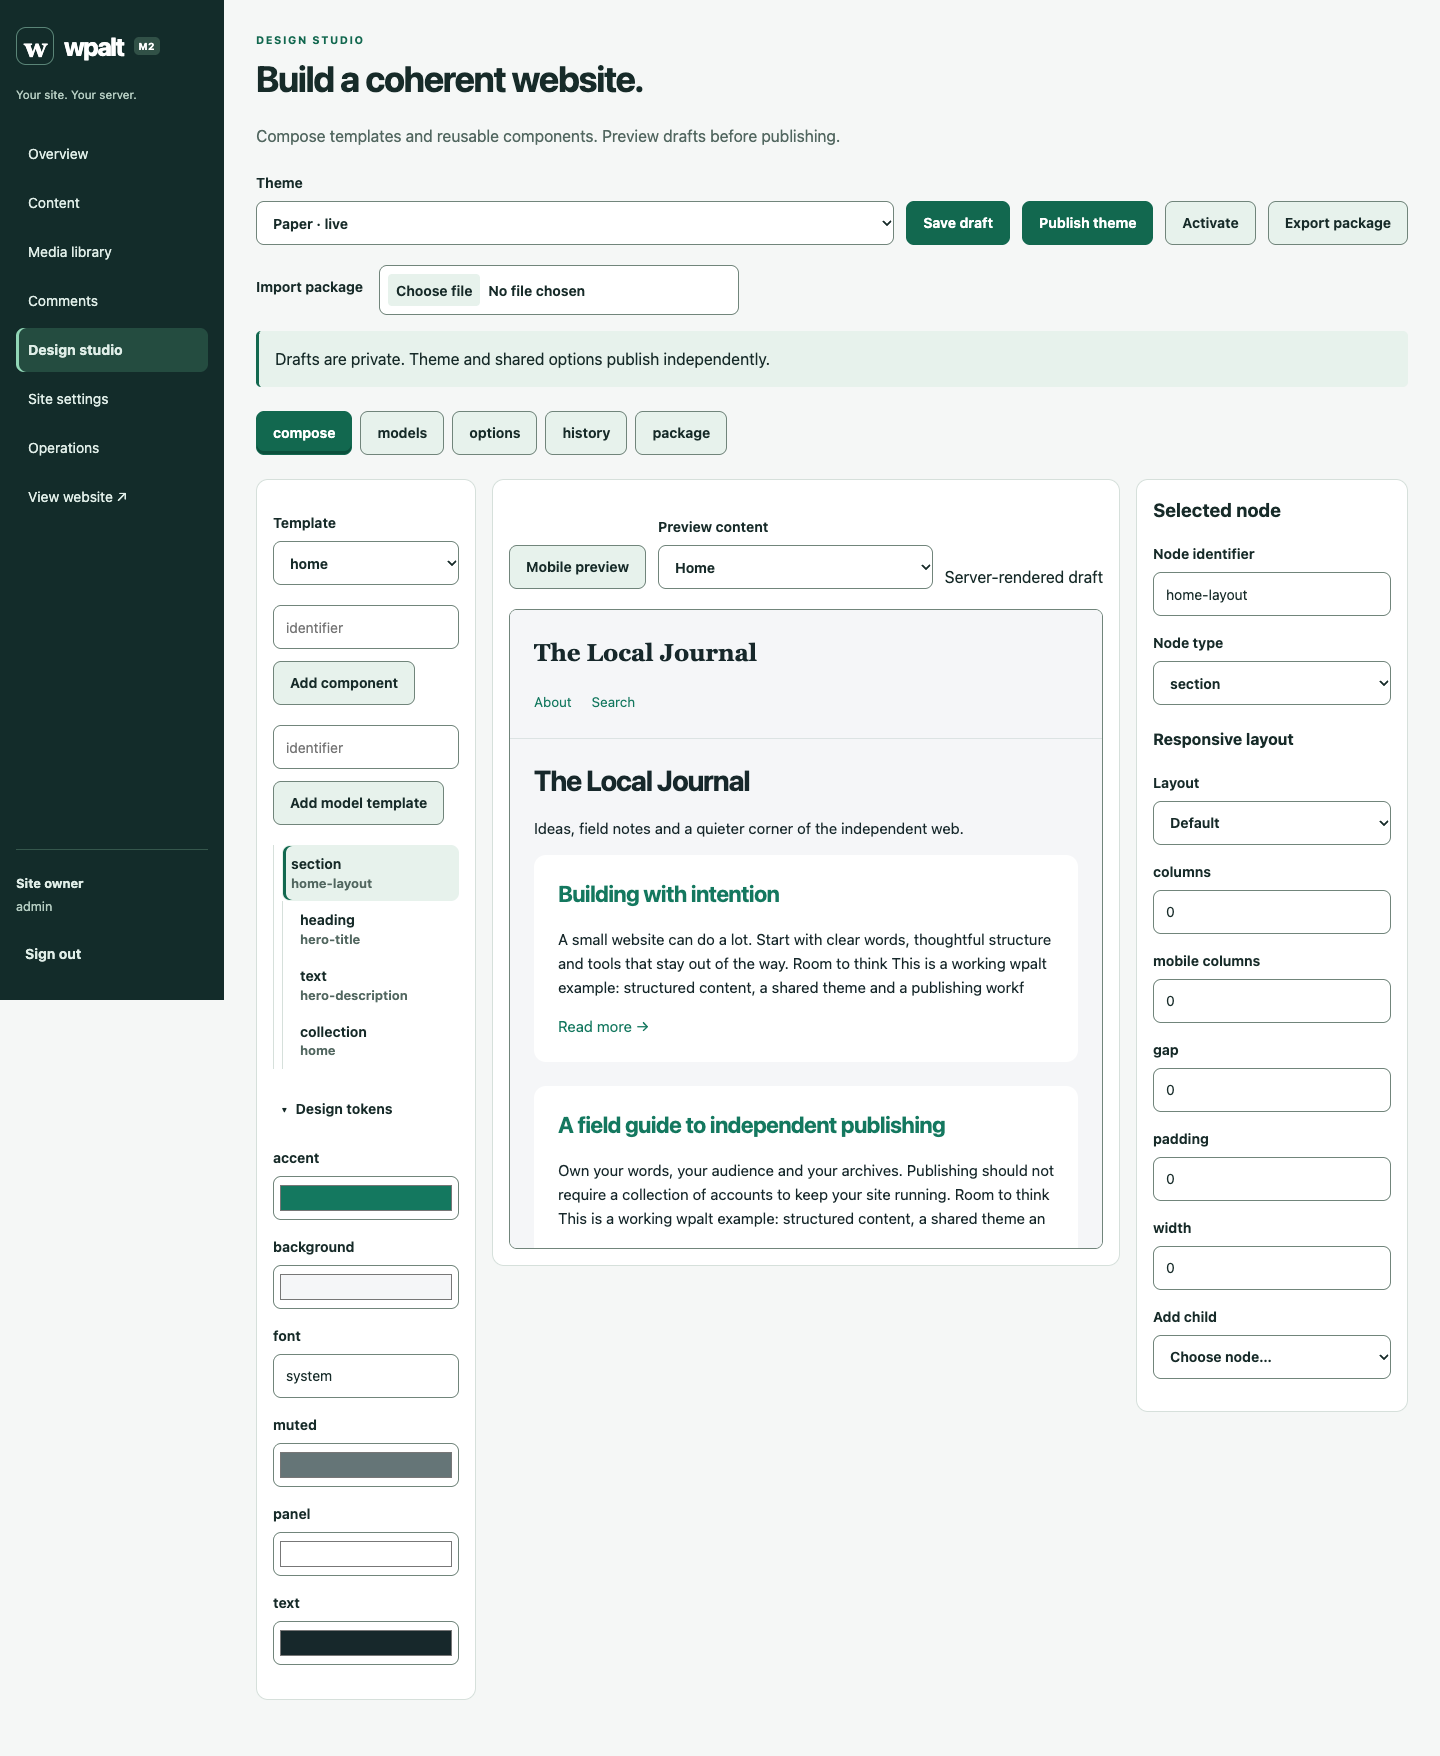
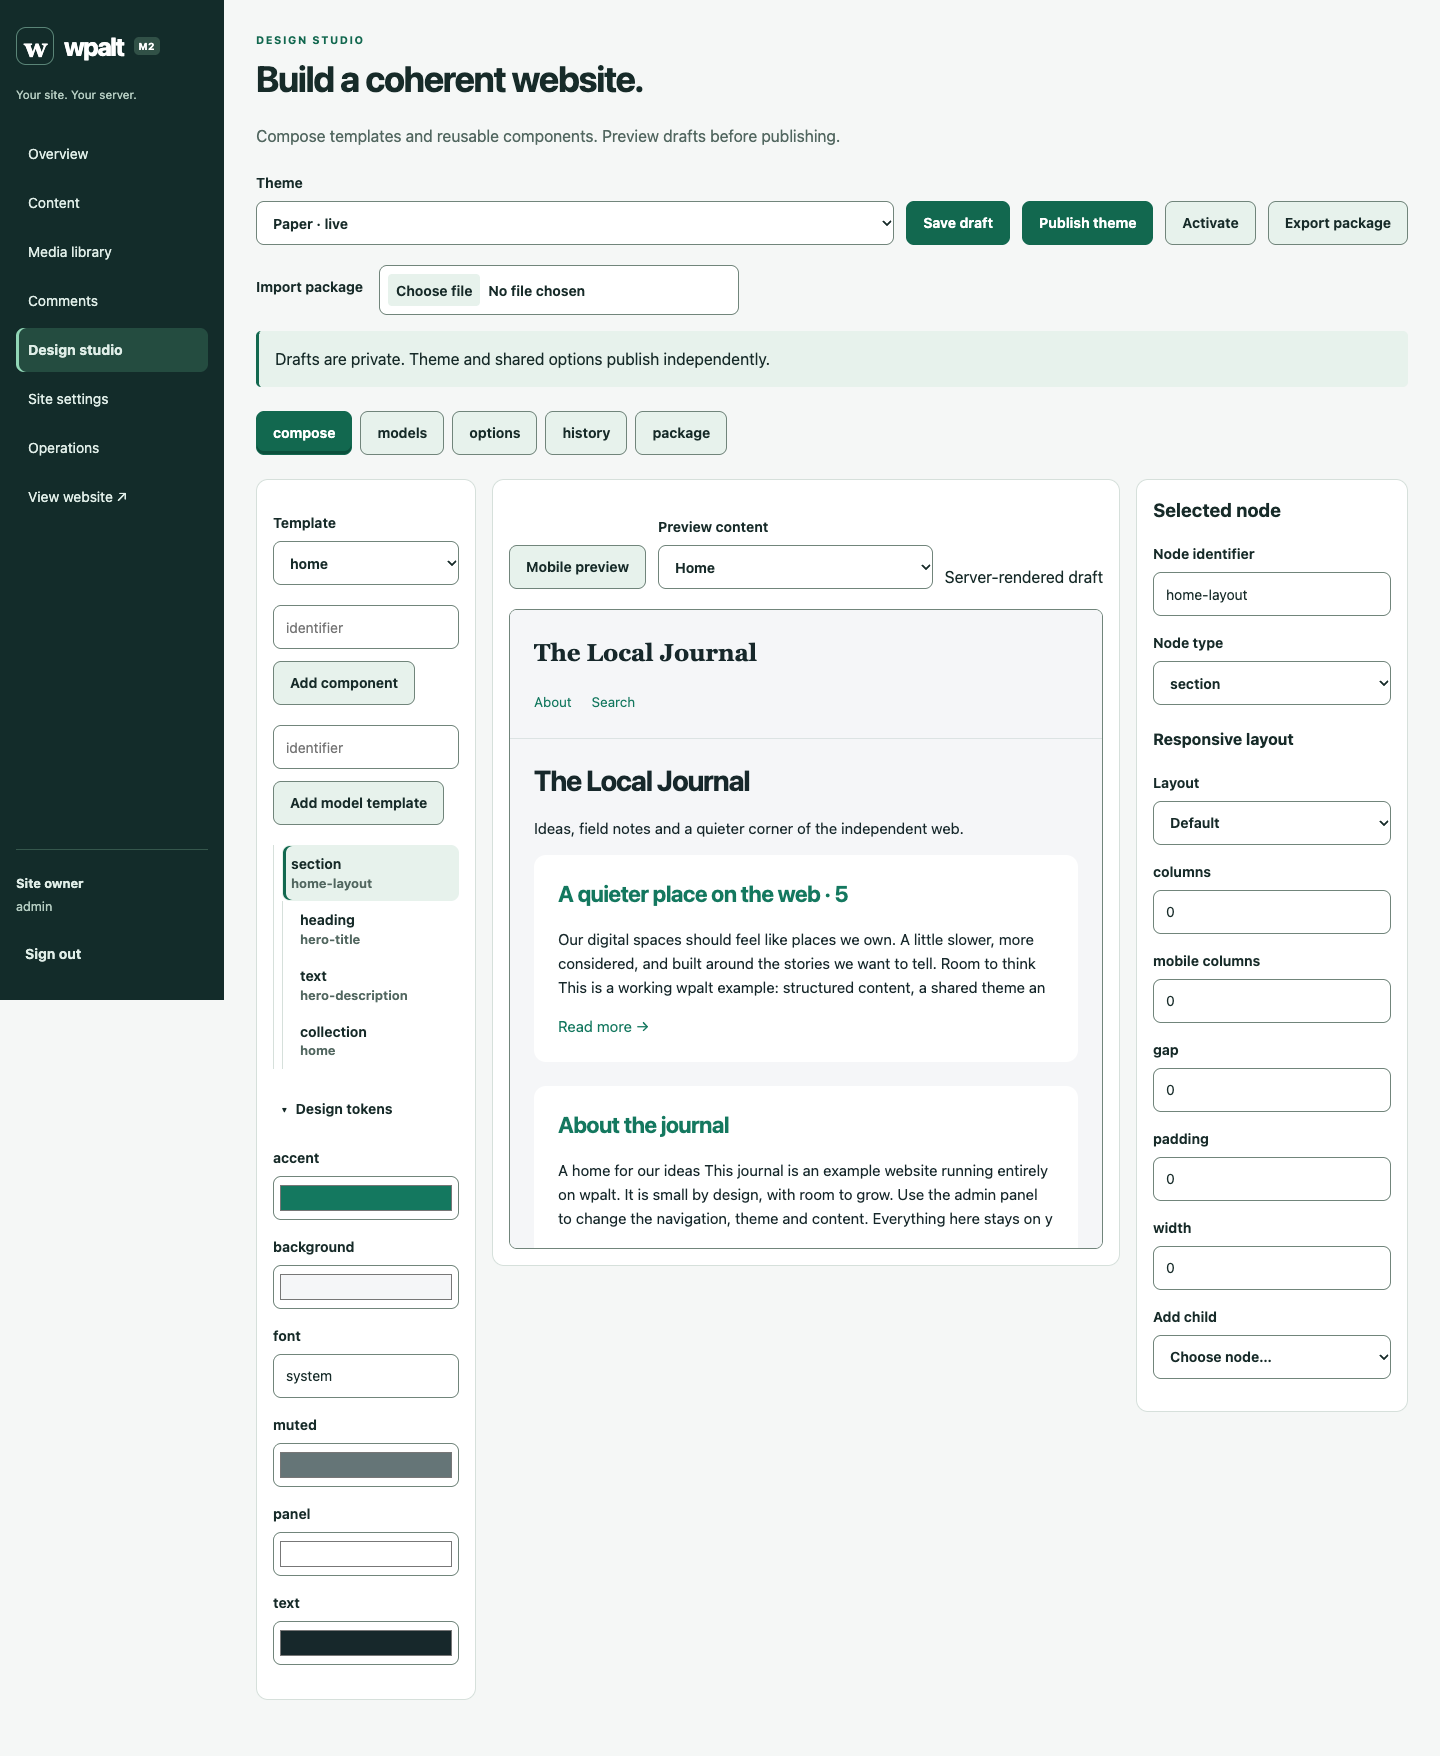
test: review Linux UI references and harden responsive authoring contracts

Changed region(s): [[0.375, 0.615, 0.7188, 0.7073], [0.375, 0.492, 0.7188, 0.5843]]

diff --git a/frontend/admin-ui.css b/frontend/admin-ui.css
@@ -334,6 +334,11 @@
     grid-column: 1/-1;
   }
 }
+@media (--ui-studio-single) {
+  .admin .studio {
+    grid-template-columns: minmax(0, 1fr);
+  }
+}
 @media (--ui-mobile) {
   .admin .sidebar {
     position: relative;
@@ -398,4 +403,23 @@
 :is(.admin, .auth) main :is(p, li) a:not(.button) {
   text-decoration: underline;
   text-underline-offset: 3px;
+}
+
+.admin fieldset {
+  border: 1px solid var(--ui-color-control-border);
+  border-radius: var(--ui-radius-control);
+  padding: var(--ui-space-4);
+  min-inline-size: 0;
+  margin: 0 0 var(--ui-space-4);
+}
+.admin legend {
+  font-size: var(--ui-type-label);
+  font-weight: 650;
+  padding-inline: var(--ui-space-2);
+}
+.admin label:has(> input[type="checkbox"]) {
+  display: flex;
+  align-items: center;
+  gap: var(--ui-space-3);
+  min-height: var(--ui-size-control);
 }

diff --git a/docs/frontend-foundations.md b/docs/frontend-foundations.md
@@ -18,11 +18,23 @@ A new component must name its user purpose, states, token choices, keyboard inte
 
 `scripts/ui-contracts.json` is an independently reviewed product contract, separate from token generation. Current values: normal action/input/select targets at least 44 CSS pixels high, control radius 8, panel radius 12, desktop sidebar 224, workspace padding 32 desktop / 16 mobile, visible focus outline at least 3 pixels. Our 44px product choice is stricter than WCAG 2.2 AA's 24px target criterion, which includes exceptions. Geometry permits 0.5px rounding; horizontal document overflow is rejected. Tables have an explicit local scroll exception, not a page-wide exemption. Preview has a usable minimum width.
 
-`scripts/ui_contracts.cjs` runs within the existing real-browser fixture. It records component bounding boxes, radius, font size/line height, names, viewport and failures in `work/ui-review/measurements.json`. Five actual admin routes (overview, library, new editor, Studio, settings) run at 320/768/1440px. The shared component gallery covers primary/secondary/destructive/disabled/busy, help/error fields, select/check, notices, disclosure and status. Keyboard focus, obscuration at the target center, invalid state and real field editing are checked. An injected undersized action must trigger a failure, proving the guard detects the regression it claims to protect. Contrast checks use computed solid sRGB colors, with 4.5:1 normal text / 3:1 meaningful input boundary. Axe-core 4.13.0 scans the gallery and five desktop admin routes against its WCAG A/AA tagged rules, records incomplete/manual findings, and excludes theme iframe contents from this admin-only scope; these focused samples do not certify the entire application's accessibility.
+`scripts/ui_contracts.cjs` runs within the existing real-browser fixture. It records component bounding boxes, radius, font size/line height, names, viewport and failures in `work/ui-review/measurements.json`. Five actual admin routes (overview, library, new editor, Studio, settings) run at 320/768/1440px; Studio also checks 701/1201px just above layout transitions. Below 768px its panes stack to keep the preview usable, including when the sidebar is still fixed. The shared component gallery covers primary/secondary/destructive/disabled/busy, help/error fields, select/check, notices, disclosure and status. Keyboard focus, obscuration at the target center, invalid state and real field editing are checked. An injected undersized action must trigger a failure, proving the guard detects the regression it claims to protect. Contrast checks use computed solid sRGB colors, with 4.5:1 normal text / 3:1 meaningful input boundary. Axe-core 4.13.0 scans the gallery and five desktop admin routes against its WCAG A/AA tagged rules, records incomplete/manual findings, and excludes theme iframe contents from this admin-only scope; these focused samples do not certify the entire application's accessibility.
 
 Real screen PNGs are review artifacts. The deterministic gallery additionally compares against reviewed platform/browser PNG baselines using pixelmatch, including dimension equality; threshold 0.15 per-pixel color distance, antialias differences excluded, at most 0.1% changed pixels. These tolerances are local regression choices, not aesthetic scores. Font/rasterization/platform differences need separate baselines; pin Playwright 1.62.1 and Ubuntu 24.04 in CI. The report includes full page screenshots with optional control-box overlays, position/dimension tables and the raw geometry/style records. Page readiness, asset bytes and initial layout shifts are observations rather than flaky timing assertions; no field Core Web Vitals claim. macOS Chrome is separate and records its actual version; its baseline is useful locally but not a universal cross-machine promise. CI never automatically approves new baselines.
 
-Run build then the ordinary browser journey with `WPALT_BINARY` and `PLAYWRIGHT_MODULE` as in CI. For an intentional design revision, run locally with `UI_UPDATE_BASELINES=1`; inspect gallery plus actual-page screenshots and measurement deltas, then commit baseline changes with rationale. For Linux bootstrap, retrieve CI's actual gallery images from `ui-review`, inspect them, and explicitly copy them into `tests/ui-baselines/linux-chromium/`; rerun normal comparison. Missing baselines fail, rather than silently passing. Build/verification/dependency tools are development-only. PR CI uploads measurements, actual and diff images on success or failure; successful artifact packaging still requires all checks.
+From the repository root:
+
+```sh
+npm ci --prefix frontend --ignore-scripts
+npm --prefix frontend run build
+cargo build --release --locked
+frontend/node_modules/.bin/playwright install chromium
+WPALT_BINARY="$PWD/target/release/wpalt" \
+  PLAYWRIGHT_MODULE="$PWD/frontend/node_modules/playwright" \
+  node scripts/browser_acceptance.cjs
+```
+
+Linux CI uses Playwright's `install --with-deps chromium` to provide the browser's OS dependencies. The entire npm test/build dependency graph, including Playwright, is locked and audited. To use your installed Chrome locally, additionally set `CHROME_EXECUTABLE`; its actual version is recorded and must match the intended local baseline environment. For an intentional design revision, run locally with `UI_UPDATE_BASELINES=1`; inspect gallery plus actual-page screenshots and measurement deltas, then commit baseline changes with rationale. For Linux bootstrap, retrieve CI's actual gallery images from `ui-review`, inspect them, and explicitly copy them into `tests/ui-baselines/linux-chromium/`; rerun normal comparison. Missing baselines fail, rather than silently passing. Build/verification/dependency tools are development-only. PR CI uploads measurements, actual and diff images on success or failure; successful artifact packaging still requires all checks.
 
 ## Human aesthetic and UX review
 
@@ -34,6 +46,6 @@ Future milestones extend this foundation. M3 adds multilingual direction/long tr
 
 Reviewed 2026-10-01: [WCAG 2.2](https://www.w3.org/TR/WCAG22/), [reflow](https://www.w3.org/WAI/WCAG22/Understanding/reflow.html), [non-text contrast](https://www.w3.org/WAI/WCAG22/Understanding/non-text-contrast.html), [focus not obscured](https://www.w3.org/WAI/WCAG22/Understanding/focus-not-obscured-minimum.html), [Playwright visual comparisons](https://playwright.dev/docs/test-snapshots). Standards requirements and informative guidance are distinguished from our internal dimensions/tolerances. Renew through the feature-guidance freshness gate at affected release or guidance/browser changes.
 
-Status: functional implementation; local/CI visual verification and review evidence in progress. Delivery PR and verified results are recorded once available.
+Status: locally verified implementation; [supporting PR #4](https://github.com/NaxAlpha/wpalt/pull/4) records current-head CI and review status. [Verification evidence](evidence/frontend-foundations-verification.md) and the baseline review record explain results and limitations.
 
 The native Studio token disclosure starts collapsed on narrow screens to reduce initial scrolling; desktop remains expanded. Active navigation preserves the parent Content section in the editor. Inline prose links have an underline so color is not their only identification.

diff --git a/docs/evidence/frontend-foundations-verification.md b/docs/evidence/frontend-foundations-verification.md
@@ -13,15 +13,17 @@ One semantic token source feeds bundled admin/sign-in styling. Shared native act
 - Twelve existing high-level acceptance journeys pass locally on SQLite; current PR CI requires actual SQLite and PostgreSQL 17. No storage schema change is made.
 - Formatting/Clippy with warnings denied pass. Native release CLI install/configuration/scheduler/recovery/theme-portability/redacted-log checks pass.
 - Native release Chrome journeys preserve publishing, autosave, revision, media, moderation, theme switching, reusable composition, typed authoring and invalid-feedback behavior; no unexpected external requests or browser script errors.
-- UI cluster measures eighteen surfaces: shared components plus five real admin routes at 320/768/1440px. Independent contracts check target dimensions, radius, typography, workspace/sidebar placement, no document overflow, usable preview, keyboard focus and states, disclosure behavior and current section on nested routes. An injected undersized action proves detection.
+- UI cluster measures twenty surfaces: shared components plus five real admin routes at 320/768/1440px and Studio checks at 701/1201px. Independent contracts check target dimensions, radius, typography, workspace/sidebar placement, no document overflow, usable preview, keyboard focus and states, disclosure behavior and current section on nested routes. An injected undersized action proves detection.
 - Three deterministic gallery visual references pass the ordinary comparator on macOS. Linux requires separately reviewed references; missing references deliberately fail rather than creating expected images automatically.
 - Axe-core 4.13.0 runs six representative WCAG A/AA-tagged scans. Local scans report no violations or incomplete findings. Theme iframe contents are excluded from this admin-only check; no claim of full WCAG/assistive-technology conformance follows.
 - `ui-review` CI artifact contains actual/diff PNGs, raw measurements and an HTML report with control overlays and position tables. Page-readiness/assets/initial layout shifts are measured observations, not timing assertions or field CWV scores.
 
 ## Review findings and interpretation
 
-Measured checks caught a table-panel radius inconsistency. Automated accessibility checks caught a dashboard inline link distinguishable only by color. Both were corrected. Visual review found mobile tokens pushing the preview too far down; a native responsive disclosure now exposes them on demand. Desktop/mobile spacing, heading hierarchy, labels and form states were inspected through the real screenshots. These are documented judgments, not an automated aesthetic score.
+Measured checks caught a table-panel radius inconsistency. Automated accessibility checks caught a dashboard inline link distinguishable only by color. Both were corrected. Boundary review found that the Studio preview could become too narrow just above the mobile navigation breakpoint; the panes now stack below 768px and a 701px contract protects that case. Visual review found mobile tokens pushing the preview too far down; a native responsive disclosure now exposes them on demand. Desktop/mobile spacing, heading hierarchy, labels and form states were inspected through the real screenshots. These are documented judgments, not an automated aesthetic score.
 
 Typography/system-font differences require platform-specific references. macOS baselines record native Chrome; Linux CI pins Ubuntu 24.04 and Playwright 1.62.1. Browser/font upgrades require inspection and explicit baseline updates. Pixel comparison tolerates antialias differences and up to 0.1% changed pixels; geometry/contrast contracts remain independent. Real populated pages produce review images and measurements without brittle full-page golden snapshots of random content IDs/order.
 
 The Studio JS and new admin CSS are bundled with the Rust application; exact raw/gzip sizes and native executable size are in local results. Development-only axe/pixelmatch/pngjs add no runtime Node or network dependency. No new memory/disk-superiority claim or repeated database benchmark is warranted for this frontend-only change. Future multilingual, commerce, extension/theme and distributed milestones extend their own representative interactions through this foundation.
+
+The initial [Linux capture](https://github.com/NaxAlpha/wpalt/actions/runs/36796239498) passed eighteen geometry surfaces and six accessibility scans, then deliberately failed only because its three reviewed references did not yet exist. The 320/768/1440px images were inspected for hierarchy, wrapping, states and error treatment and committed separately from macOS. [Baseline review record](../../tests/ui-baselines/review.json) records provenance and image hashes. Final PR-head checks remain authoritative.

diff --git a/docs/wpalt-milestones.md b/docs/wpalt-milestones.md
@@ -220,3 +220,5 @@ The composable studio, typed authoring, published-data bindings, theme/options p
 ### M2 merged; frontend preparation before M3 — 2026-10-01
 
 [PR #3](https://github.com/NaxAlpha/wpalt/pull/3) merged as `e527cd118b1a9326e3d8288e506746a1908afb52`; [actual main build](https://github.com/NaxAlpha/wpalt/actions/runs/36793117434) passed and its clean archive was downloaded/verified. The user requested a dedicated supporting frontend PR before M3. Its [contract](frontend-foundations.md) establishes tokens, shared controls, precise browser measurements, visual baselines and human aesthetic review, with improvements to current administration. It does not create a small internal milestone or replace M3's substantial user outcome. M3–M9 remain planned; theme evolution follows existing M2/M8 scope.
+
+[Frontend supporting PR #4](https://github.com/NaxAlpha/wpalt/pull/4) contains its design/measurement foundation, current admin improvements and review evidence. Readiness requires ordinary platform comparison and all current-head application/compiler/clean-build jobs; review/merge remain separate. M3 has not started.

diff --git a/THIRD_PARTY_NOTICES.md b/THIRD_PARTY_NOTICES.md
@@ -26,4 +26,4 @@ LIABILITY, WHETHER IN AN ACTION OF CONTRACT, TORT OR OTHERWISE, ARISING FROM,
 OUT OF OR IN CONNECTION WITH THE SOFTWARE OR THE USE OR OTHER DEALINGS IN THE
 SOFTWARE.
 
-Development-only visual verification uses pixelmatch 7.2.0 and pngjs 7.0.0 (MIT), and axe-core 4.13.0 (MPL-2.0), through the locked npm toolchain. These scanners/diff libraries are not included in the application runtime bundle. Their package notices remain in the installed development dependencies.
+Development-only visual verification uses Playwright 1.62.1 (Apache-2.0), pixelmatch 7.2.0 and pngjs 7.0.0 (MIT), and axe-core 4.13.0 (MPL-2.0), through the locked npm toolchain. These scanners/diff libraries are not included in the application runtime bundle. Their package notices remain in the installed development dependencies.
